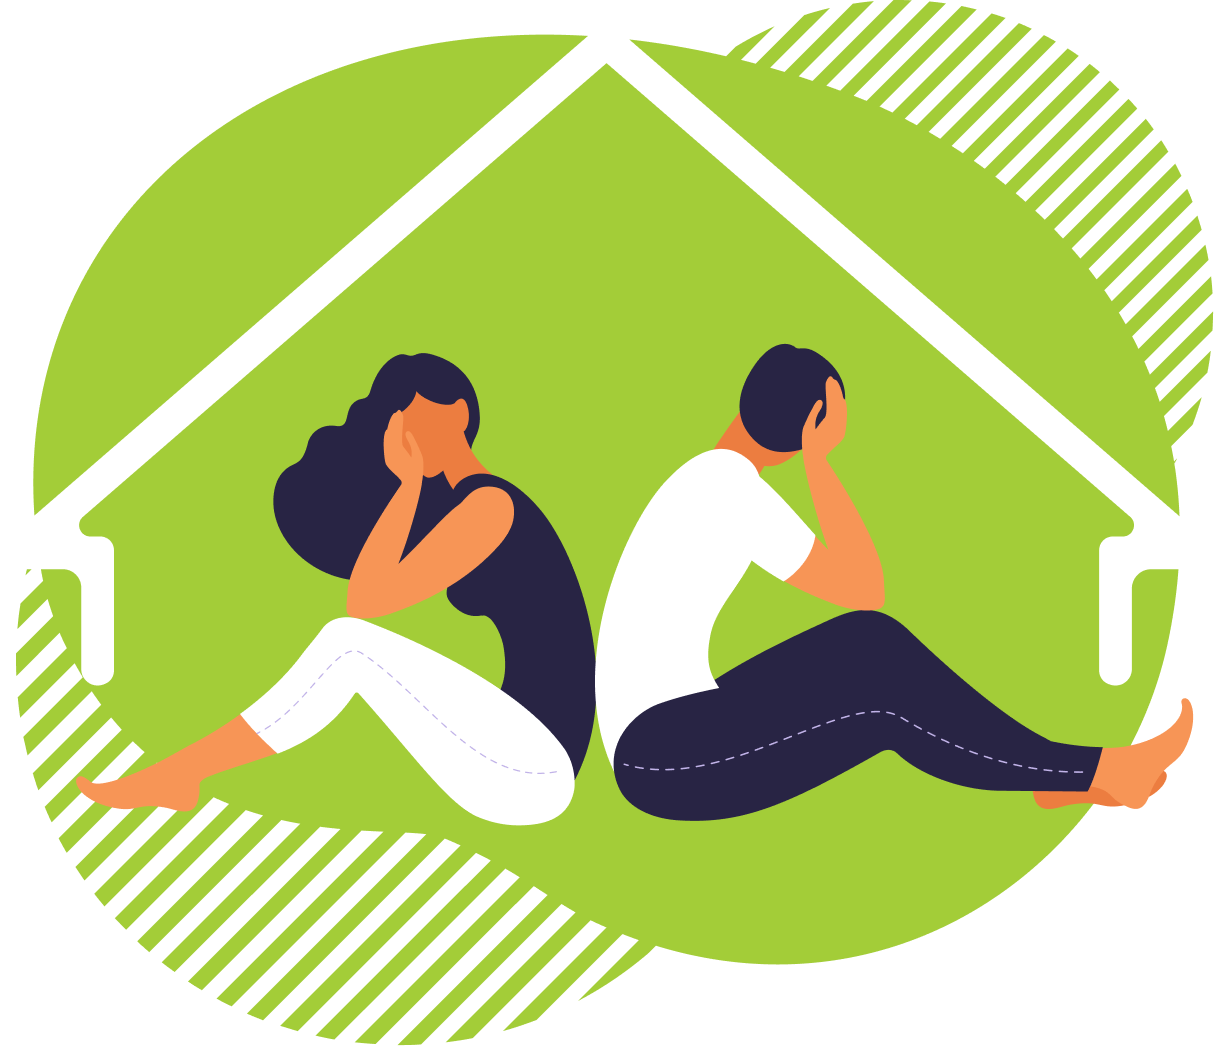
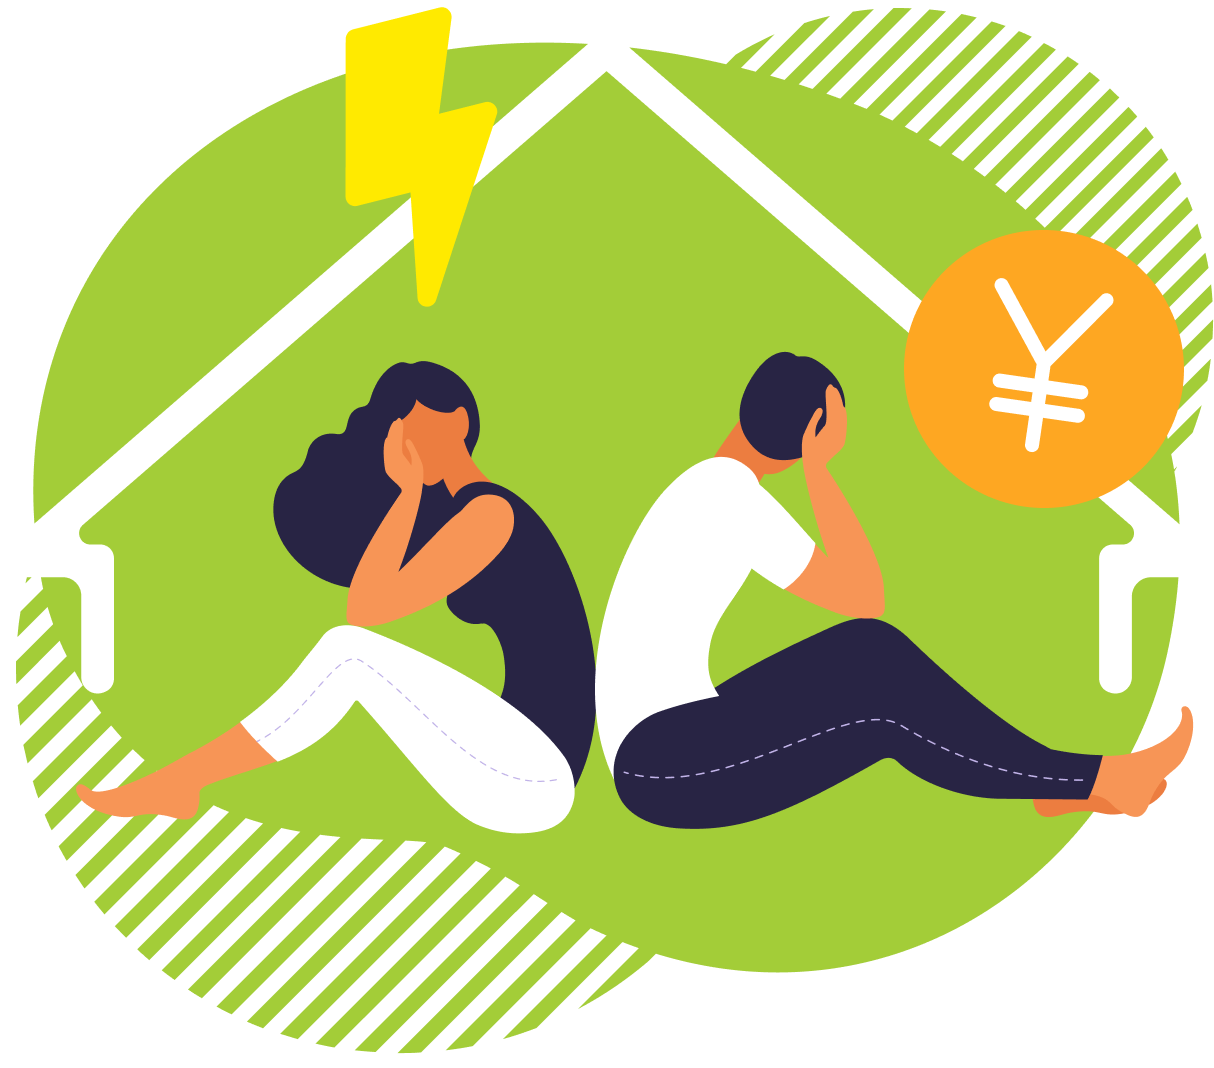
2024/8/25

diff --git a/src/index.html b/src/index.html
@@ -304,6 +304,60 @@
 
 
 
+    <!----------------
+        中長期的な電気代削減が必要な時代に
+    ------------------>
+    <section class="topic-green">
+        <div class="topic-green__inner">
+
+            <div class="topic-green__head-border">
+                <img src="./assets/images/common/topic-head-border.png" alt="波線">
+            </div>
+
+            <div class="topic-green__title section-title section-title--white">
+                <p class="section-title__en">＼&emsp;topic&emsp;／</p>
+                <h2 class="section-title__jp section-title__jp--line "><span class="topic-green__title-span">中長期的な電気代削減が</span><br class="u-mobile">必要な時代に</h2>
+            </div>
+            <div class="topic-green__content">
+                <div class="topic-green__sentence">
+                    <div class="topic-green__textBox">
+                        <p class="topic-green__text">電気代高騰が長期化する中、一時的な節電だけでなく、<span class="topic-green__lightOrange">中長期的な視点での電気代削減が重要</span>になっています。</p>
+                        <p class="topic-green__text">家庭では、<span class="topic-green__lightOrange">省エネ家電への買い替えや太陽光発電の導入</span>など、初期投資は必要ですが長期的に効果が出る対策が注目されています。</p>
+                    </div>
+                    <div class="topic-green__frame">
+                        <div class="topic-green__frame-img">
+                            <picture>
+                                <source srcset="./assets/images/common/topic-frame-green.png" media="(min-width: 768px)">
+                                <img src="./assets/images/common/topic-frame-green-sp.png" alt="">
+                            </picture>
+                        </div>
+                        <div class="topic-green__frame-textBox">
+                            <p class="topic-green__frame-text">企業においても、生産プロセスの見直しやAI活用による効率化など、根本的な電力消費の削減が求められているでしょう。</p>
+                            <p class="topic-green__frame-text">政府や自治体も、<span class="topic-green__text-green">再生可能エネルギーの促進や電力システムの最適化に向けた取り組みを強化</span>しています。</p>
+                            <p class="topic-green__frame-text">これらの努力は、電気代削減だけでなく、持続可能な社会の実現にも貢献します。</p>
+                        </div>
+                    </div>
+                </div>
+                <div class="topic-green__img u-desktop">
+                    <img src="./assets/images/common/topic2.png" alt="男女が悩んでいる画像">
+                </div>
+            </div>
+
+            <div class="topic-green__bottom-border">
+                <img src="./assets/images/common/topic-bottom-border.png" alt="波線">
+            </div>
+
+        </div>
+    </section>
+
+
+
+
+
+
+
+
+
 
 
     

diff --git a/src/sass/module/_topic-green.scss b/src/sass/module/_topic-green.scss
@@ -1,0 +1,140 @@
+@use "global" as *;
+
+.topic-green{
+    background-image: url('../images/common/recommend-card-bg1.png');
+    background-position: center;
+    background-repeat: no-repeat;
+    background-size: cover;    
+    color: $white;
+    text-align: center;
+    padding: rem(40) 0;
+    @include mq(md) {
+        padding: rem(80) 0;    
+    }
+}
+
+.topic-green__title{
+    margin-top: rem(20);
+    @include mq(md) {
+        margin-top: 0;
+    }
+}
+
+.topic-green__inner{
+    max-width: $max-width;
+    margin: auto;
+    padding: 0 rem(25);
+    @include mq(md) {
+        max-width: rem(1230);
+    }
+}
+
+.topic-green__title-span{
+    font-size: rem(28);
+    @include mq(md) {
+        font-size: rem(48);
+    }
+}
+
+.topic-green__content{
+    margin-top: rem(40);
+    font-weight: $semiBold;
+    font-size: rem(16);
+    letter-spacing: 0.01em;
+    line-height: 1.75;
+    @include mq(md) {
+        margin-top: rem(80);
+        display: flex;
+        align-items: center;
+        justify-content: flex-end;
+        gap: 0 rem(40.5);
+        font-size: rem(20);
+        line-height: 1.4;
+    }
+}
+
+.topic-green__img{
+    width: 51%;
+}
+
+.topic-green__img img {
+    aspect-ratio: 606/533;
+    width: 100%;
+    height: 100%;
+    object-fit: cover;
+}
+
+.topic-green__sentence{
+    width: 100%;
+    text-align: left;
+    @include mq(md) {
+        width: 42.57%;
+    }
+}
+
+.topic-green__textBox{
+    width: 100%;
+    margin: auto;
+    @include mq(md) {
+        width: 94%;
+        margin: auto;
+    }
+}
+
+.topic-green__text + .topic-green__text{
+    margin-top: rem(20);
+    @include mq(md) {
+        margin-top: rem(30);
+    }
+}
+
+.topic-green__lightOrange{
+    color: #FDD23E;
+}
+
+.topic-green__text-green{
+    color: $green;
+}
+
+.topic-green__frame {
+    margin-top: rem(20);
+    display: flex;
+    justify-content: center; /* 水平方向に中央揃え */
+    align-items: center; /* 垂直方向に中央揃え */
+    position: relative;
+}
+
+.topic-green__frame-text + .topic-green__frame-text{
+    margin-top: rem(20);
+    @include mq(md) {
+        margin-top: rem(30);
+    }
+}
+
+.topic-green__frame-img{
+    display: block;
+    width: rem(340);
+    margin: auto;
+    @include mq(md) {
+        width: 100%;
+    }
+}
+
+.topic-green__frame-textBox {
+    position: absolute;
+    top: 50%;
+    left: 50%;
+    transform: translate(-50%, -50%);
+    padding: rem(40) rem(20) rem(33);
+    color: $black;
+    width: rem(340);
+    border-radius: 10px;
+    @include mq(md) {
+        width: 100%;
+        padding: rem(50) rem(38) rem(39);
+    }
+}
+
+.topic-green__bottom-border{
+    margin-top: rem(40);
+}

diff --git a/src/sass/module/_section-title.scss b/src/sass/module/_section-title.scss
@@ -81,7 +81,7 @@
 }
 
 .section-title__jp--line{
-    line-height: 1;
+    line-height: 1.2;
     @include mq(md) {
         line-height: 1.25;
     }
